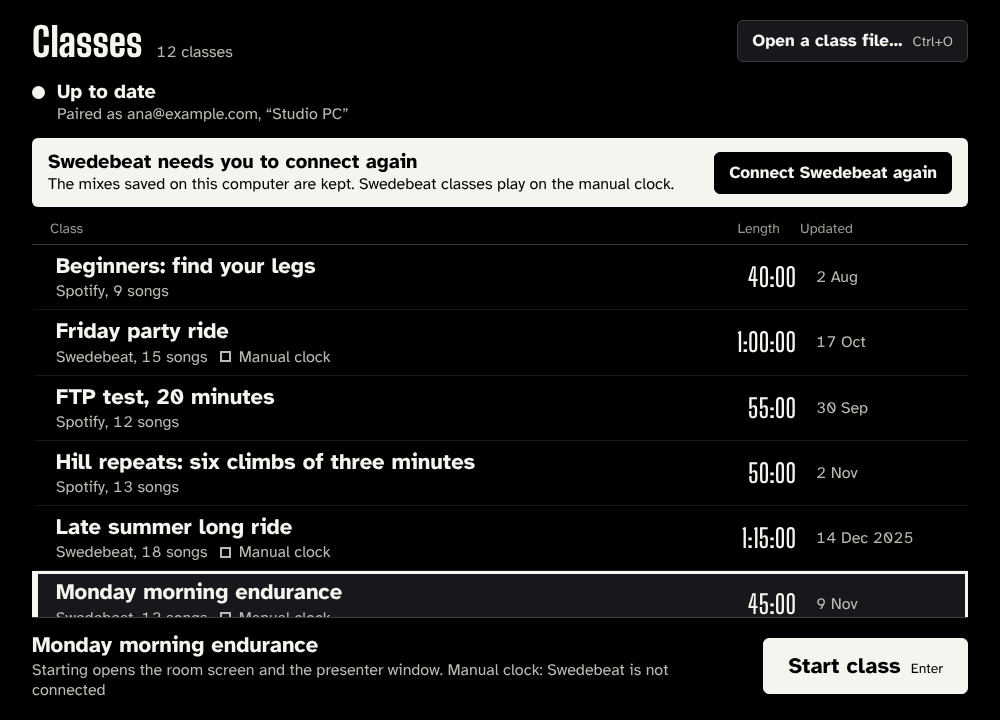
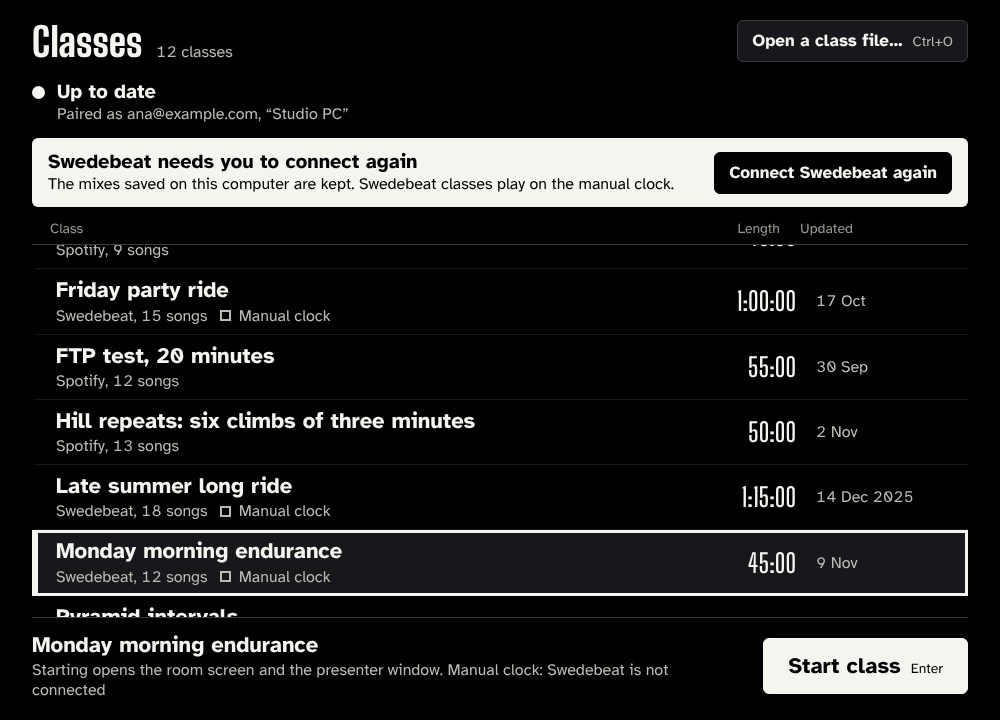
docs(design): fix Swedebeat spec findings from review
Claude-Session: https://claude.ai/code/session_01LLHBh3xazuKpSV1STS2mcZ

diff --git a/docs/design/mockups/room-mix-fallback-longest.html b/docs/design/mockups/room-mix-fallback-longest.html
@@ -1,0 +1,57 @@
+<!doctype html>
+<html lang="en">
+<head>
+<meta charset="utf-8">
+<title>Room screen: before the start</title>
+<link rel="stylesheet" href="tokens.css">
+<link rel="stylesheet" href="room.css">
+<link rel="stylesheet" href="swedebeat-room.css">
+</head>
+<body>
+<!-- State: before the start, the longest reason (no safe place for the sign-in). Checked at every room size. Spec: docs/design/swedebeat.md. Generated by swedebeat-pages.js from room-before-start-manual.html. -->
+<aside class="gel z1 down">
+  <div class="gel-head"><span class="gel-num n" data-tier="gel">1</span><span class="lbl" data-tier="label" data-lines="2">First zone</span></div>
+  <span class="gel-name n" data-tier="value" data-lines="2">Recovery</span>
+  <div class="gel-targets" data-tier="minor" data-lines="3"><span>50–60% FTP</span><span>RPE 2–3</span></div>
+</aside>
+
+<header class="rail">
+
+  <span class="lbl seg"></span>
+  <span class="link manual" data-tier="label">Press Start · Swedebeat cannot be connected here</span>
+</header>
+
+<section class="intro">
+  <h1 data-tier="value">Thursday threshold</h1>
+  <div class="facts">
+    <div><span class="lbl" data-tier="label">Length</span><span class="v n" data-tier="value">42:00</span></div>
+    <div><span class="lbl" data-tier="label">Songs</span><span class="v n" data-tier="value">11</span></div>
+    <div><span class="lbl" data-tier="label">Intervals</span><span class="v n" data-tier="value">24</span></div>
+    <div><span class="lbl" data-tier="label">Class load</span><span class="v n" data-tier="value">58</span></div>
+  </div>
+  <span class="lbl ztitle" data-tier="label">Time in each zone, as planned</span>
+  <div class="zones">
+    <div class="z1"><span class="n" data-tier="minor">1</span><span class="tm" data-tier="minor">6:00</span><span class="t" data-tier="label" data-lines="2" data-clamp="2">Recovery</span></div>
+    <div class="z2"><span class="n" data-tier="minor">2</span><span class="tm" data-tier="minor">11:30</span><span class="t" data-tier="label" data-lines="2" data-clamp="2">Endurance, the aerobic base for long steady rides</span></div>
+    <div class="z3"><span class="n" data-tier="minor">3</span><span class="tm" data-tier="minor">8:00</span><span class="t" data-tier="label" data-lines="2" data-clamp="2">Tempo</span></div>
+    <div class="z4"><span class="n" data-tier="minor">4</span><span class="tm" data-tier="minor">7:00</span><span class="t" data-tier="label" data-lines="2" data-clamp="2">Threshold</span></div>
+    <div class="z5"><span class="n" data-tier="minor">5</span><span class="tm" data-tier="minor">5:00</span><span class="t" data-tier="label" data-lines="2" data-clamp="2">VO2 max</span></div>
+    <div class="z6"><span class="n" data-tier="minor">6</span><span class="tm" data-tier="minor">3:00</span><span class="t" data-tier="label" data-lines="2" data-clamp="2">Anaerobic capacity</span></div>
+    <div class="z7"><span class="n" data-tier="minor">7</span><span class="tm" data-tier="minor">1:30</span><span class="t" data-tier="label" data-lines="2" data-clamp="2">Neuromuscular power</span></div>
+  </div>
+</section>
+
+<section class="score">
+  <div class="track iv">
+    <div class="block z1" style="left:25.00vw;width:50.00vw"><span class="n" data-tier="minor">1</span><span class="t" data-tier="label" data-fit="hide">Recovery</span></div>
+    <div class="block z2" style="left:75.00vw;width:33.33vw;padding-right:13.33vw"><span class="n" data-tier="minor">2</span><span class="t" data-tier="label" data-fit="hide">Endurance, the aerobic base for long steady rides</span></div>
+  </div>
+  <div class="track songs">
+    <div class="clip" style="left:25.00vw;width:64.44vw;--phrase:2.564vw"><span class="head"><b data-tier="label" data-clamp="1">Slow Sunrise</b></span><span class="a" data-tier="label" data-fit="hide">Harbour Lights</span><span class="bpm" data-tier="label" data-fit="hide">104 bpm</span></div>
+    <div class="clip" style="left:89.44vw;width:66.11vw;--phrase:2.083vw"></div>
+  </div>
+  <div class="past"></div>
+  <div class="now"></div>
+</section>
+</body>
+</html>

diff --git a/docs/design/mockups/class-list-swedebeat-form.html b/docs/design/mockups/class-list-swedebeat-form.html
@@ -15,5 +15,7 @@
   <button><span data-tier="minor" data-min-cap="12">Open a class file…</span> <span data-tier="label" data-min-cap="9.5" class="kbd">Ctrl+O</span></button>
 </header><div class="status"><div class="what"><span class="mark ok" aria-hidden="true"></span><div><span data-tier="minor" data-min-cap="14" class="st">Up to date</span><div><span data-tier="minor" data-min-cap="11" data-lines="2" class="dt">Paired as ana@example.com, “Studio PC”</span></div></div></div></div><section class="panel"><h2 class="n" data-tier="minor" data-min-cap="28">Connect Swedebeat</h2><p data-tier="minor" data-min-cap="14" data-lines="2">Type the details you use for Swedebeat. They are used once to connect and are not kept.</p><div class="fields"><div class="field-box"><span data-tier="label" data-min-cap="9.5" class="lbl">Username</span><div class="in focus"><span data-tier="minor" data-min-cap="13" data-lines="1">ana.k</span></div></div><div class="field-box"><span data-tier="label" data-min-cap="9.5" class="lbl">Password</span><div class="in"><span data-tier="minor" data-min-cap="13" data-lines="1">••••••••••</span></div></div></div><div class="row-btns"><button class="primary"><span data-tier="minor" data-min-cap="12">Connect</span> <span data-tier="label" data-min-cap="9.5" class="kbd">Enter</span></button><button><span data-tier="minor" data-min-cap="12">Cancel</span> <span data-tier="label" data-min-cap="9.5" class="kbd">Esc</span></button></div><p class="fine" data-tier="minor" data-min-cap="11" data-lines="3">Your password is not kept.</p></section>
 </div>
+<script>/* The selected row is scrolled into view, as the product does. */
+var r = document.querySelector(".row.sel"); if (r) r.scrollIntoView({ block: "nearest" });</script>
 </body>
 </html>

diff --git a/docs/design/mockups/swedebeat-pages.js b/docs/design/mockups/swedebeat-pages.js
@@ -122,6 +122,8 @@ const doc = (name) => {
 <div class="app">
 ${body}
 </div>
+<script>/* The selected row is scrolled into view, as the product does. */
+var r = document.querySelector(".row.sel"); if (r) r.scrollIntoView({ block: "nearest" });</script>
 </body>
 </html>
 `;
@@ -135,6 +137,8 @@ const ROOMS = {
     'State: before the start, the mix is on its way. Hollow dot, grey, the number in the words. Start still works: the mix plays while it downloads, and falls back (below) only if the sound would catch up with the download.'],
   'fallback': ['room-before-start-manual.html', '<span class="link manual" data-tier="label">Press Start</span>', '<span class="link manual" data-tier="label">Press Start · Swedebeat is not connected</span>',
     'State: before the start, the class is a Swedebeat class and plays on the manual clock. Grey square (a choice, not a fault: no plate); the reason follows "Press Start".'],
+  'fallback-longest': ['room-before-start-manual.html', '<span class="link manual" data-tier="label">Press Start</span>', '<span class="link manual" data-tier="label">Press Start · Swedebeat cannot be connected here</span>',
+    'State: before the start, the longest reason (no safe place for the sign-in). Checked at every room size.'],
   'playing': ['room-running.html', '<span class="link" data-tier="label">Following Spotify</span>', '<span class="link ready" data-tier="label">Playing the mix</span>',
     'State: running on the mix. The class clock is the audio position, so there is no "following", no bar count to lose and no link to lose.'],
   'fell-back': ['room-running.html', '<span class="link" data-tier="label">Following Spotify</span>', '<span class="link manual handover" data-tier="label">Mix still downloading</span>',

diff --git a/docs/design/mockups/class-list-swedebeat-refused.html b/docs/design/mockups/class-list-swedebeat-refused.html
@@ -15,5 +15,7 @@
   <button><span data-tier="minor" data-min-cap="12">Open a class file…</span> <span data-tier="label" data-min-cap="9.5" class="kbd">Ctrl+O</span></button>
 </header><div class="status"><div class="what"><span class="mark ok" aria-hidden="true"></span><div><span data-tier="minor" data-min-cap="14" class="st">Up to date</span><div><span data-tier="minor" data-min-cap="11" data-lines="2" class="dt">Paired as ana@example.com, “Studio PC”</span></div></div></div></div><div class="plate second" role="alert"><div><span data-tier="minor" data-min-cap="14" data-lines="2" class="st">Swedebeat did not accept those details</span><div><span data-tier="minor" data-min-cap="11" data-lines="3" class="dt">Check them and type them again. Nothing was kept.</span></div></div><div class="row-btns" style="display:flex;gap:12px"></div></div><section class="panel"><h2 class="n" data-tier="minor" data-min-cap="28">Connect Swedebeat</h2><div class="fields"><div class="field-box"><span data-tier="label" data-min-cap="9.5" class="lbl">Username</span><div class="in focus"></div></div><div class="field-box"><span data-tier="label" data-min-cap="9.5" class="lbl">Password</span><div class="in"></div></div></div><div class="row-btns"><button class="primary"><span data-tier="minor" data-min-cap="12">Connect</span> <span data-tier="label" data-min-cap="9.5" class="kbd">Enter</span></button><button><span data-tier="minor" data-min-cap="12">Cancel</span> <span data-tier="label" data-min-cap="9.5" class="kbd">Esc</span></button></div></section>
 </div>
+<script>/* The selected row is scrolled into view, as the product does. */
+var r = document.querySelector(".row.sel"); if (r) r.scrollIntoView({ block: "nearest" });</script>
 </body>
 </html>

diff --git a/docs/design/mockups/class-list-swedebeat-rate-limited.html b/docs/design/mockups/class-list-swedebeat-rate-limited.html
@@ -15,5 +15,7 @@
   <button><span data-tier="minor" data-min-cap="12">Open a class file…</span> <span data-tier="label" data-min-cap="9.5" class="kbd">Ctrl+O</span></button>
 </header><div class="status"><div class="what"><span class="mark ok" aria-hidden="true"></span><div><span data-tier="minor" data-min-cap="14" class="st">Up to date</span><div><span data-tier="minor" data-min-cap="11" data-lines="2" class="dt">Paired as ana@example.com, “Studio PC”</span></div></div></div></div><div class="plate second" role="alert"><div><span data-tier="minor" data-min-cap="14" data-lines="2" class="st">Too many tries</span><div><span data-tier="minor" data-min-cap="11" data-lines="3" class="dt">Wait a few minutes, then type your details again. Nothing was kept.</span></div></div><div class="row-btns" style="display:flex;gap:12px"></div></div><section class="panel"><h2 class="n" data-tier="minor" data-min-cap="28">Connect Swedebeat</h2><div class="fields"><div class="field-box"><span data-tier="label" data-min-cap="9.5" class="lbl">Username</span><div class="in focus"></div></div><div class="field-box"><span data-tier="label" data-min-cap="9.5" class="lbl">Password</span><div class="in"></div></div></div><div class="row-btns"><button class="primary"><span data-tier="minor" data-min-cap="12">Connect</span> <span data-tier="label" data-min-cap="9.5" class="kbd">Enter</span></button><button><span data-tier="minor" data-min-cap="12">Cancel</span> <span data-tier="label" data-min-cap="9.5" class="kbd">Esc</span></button></div></section>
 </div>
+<script>/* The selected row is scrolled into view, as the product does. */
+var r = document.querySelector(".row.sel"); if (r) r.scrollIntoView({ block: "nearest" });</script>
 </body>
 </html>

diff --git a/docs/design/mockups/shots.js b/docs/design/mockups/shots.js
@@ -152,7 +152,7 @@ const appShot = (name, w, h) => ({
 // (1000x720 kept, the main state also at 1920x1080), and the room link line at three room sizes
 // (1920x1080 kept, 1024x768 kept for the longest line, 1280x1024 checked).
 const { NAMES: SW_NAMES, ROOM_NAMES: SW_ROOMS } = require('./swedebeat-pages');
-const swList = (name, w, h) => ({ file: `class-list-swedebeat-${name}.html`, png: `class-list-swedebeat-${name}-${w}x${h}.png`, w, h, room: false, presenter: true, save: w === 1000 || (name === 'signed-in' && w === 1920) });
+const swList = (name, w, h) => ({ file: `class-list-swedebeat-${name}.html`, png: `class-list-swedebeat-${name}-${w}x${h}.png`, w, h, room: false, presenter: true, save: w === 1000 || w === 1280 || (name === 'signed-in' && w === 1920) });
 const SW_ROOM_SIZES = [[1920, 1080], [1280, 1024], [1024, 768]];
 
 const ONLY = process.env.ONLY ? new RegExp(process.env.ONLY) : null;
@@ -189,7 +189,7 @@ const SHOTS = [
   { file: 'presenter.html', png: 'presenter-1000x720.png', w: 1000, h: 720, room: false, presenter: true, save: true },
   ...LIST_STATES.flatMap((s) => LIST_SIZES.map(([w, h]) => list(s, w, h))),
   ...SW_NAMES.flatMap((n) => LIST_SIZES.map(([w, h]) => swList(n, w, h))),
-  ...SW_ROOMS.flatMap((n) => SW_ROOM_SIZES.map(([w, h]) => room(`mix-${n}`, w, h, w === 1920 || (w === 1024 && n === 'fell-back')))),
+  ...SW_ROOMS.flatMap((n) => SW_ROOM_SIZES.map(([w, h]) => room(`mix-${n}`, w, h, true))),
   ...SITE_NAMES.flatMap((n) => SITE_WIDTHS.map((w) => site(n, w))),
   ...SITE_MAIN.map((n) => ({ ...site(n, 320), save: false })),
   ...COMPANION_NAMES.flatMap((n) => COMPANION_SIZES.map(([w, h]) => companion(n, w, h))),

diff --git a/docs/design/mockups/class-list-swedebeat-signing-out.html b/docs/design/mockups/class-list-swedebeat-signing-out.html
@@ -15,5 +15,7 @@
   <button><span data-tier="minor" data-min-cap="12">Open a class file…</span> <span data-tier="label" data-min-cap="9.5" class="kbd">Ctrl+O</span></button>
 </header><div class="status"><div class="what"><span class="mark ok" aria-hidden="true"></span><div><span data-tier="minor" data-min-cap="14" class="st">Up to date</span><div><span data-tier="minor" data-min-cap="11" data-lines="2" class="dt">Paired as ana@example.com, “Studio PC”</span></div></div></div></div><div class="status sw"><div class="what"><span class="mark work" aria-hidden="true"></span><div><span data-tier="minor" data-min-cap="14" class="st">Signing out of Swedebeat</span><div><span data-tier="minor" data-min-cap="11" data-lines="2" class="dt">The mixes saved on this computer are being removed</span></div></div></div></div><section class="panel"><h2 class="n" data-tier="minor" data-min-cap="28">One moment</h2><p data-tier="minor" data-min-cap="14" data-lines="2">Nothing can start until this is done. You can still open a class file.</p></section>
 </div>
+<script>/* The selected row is scrolled into view, as the product does. */
+var r = document.querySelector(".row.sel"); if (r) r.scrollIntoView({ block: "nearest" });</script>
 </body>
 </html>

diff --git a/docs/design/mockups/class-list-swedebeat-connecting.html b/docs/design/mockups/class-list-swedebeat-connecting.html
@@ -15,5 +15,7 @@
   <button><span data-tier="minor" data-min-cap="12">Open a class file…</span> <span data-tier="label" data-min-cap="9.5" class="kbd">Ctrl+O</span></button>
 </header><div class="status"><div class="what"><span class="mark ok" aria-hidden="true"></span><div><span data-tier="minor" data-min-cap="14" class="st">Up to date</span><div><span data-tier="minor" data-min-cap="11" data-lines="2" class="dt">Paired as ana@example.com, “Studio PC”</span></div></div></div></div><div class="status sw"><div class="what"><span class="mark work" aria-hidden="true"></span><div><span data-tier="minor" data-min-cap="14" class="st">Connecting to Swedebeat…</span><div><span data-tier="minor" data-min-cap="11" data-lines="2" class="dt">Your details were sent and have been cleared from this page</span></div></div></div></div><section class="panel"><h2 class="n" data-tier="minor" data-min-cap="28">One moment</h2><p data-tier="minor" data-min-cap="14" data-lines="2">Swedebeat classes can start on the manual clock meanwhile.</p></section>
 </div>
+<script>/* The selected row is scrolled into view, as the product does. */
+var r = document.querySelector(".row.sel"); if (r) r.scrollIntoView({ block: "nearest" });</script>
 </body>
 </html>

diff --git a/docs/design/mockups/class-list-swedebeat-no-keychain.html b/docs/design/mockups/class-list-swedebeat-no-keychain.html
@@ -74,5 +74,7 @@
     <span class="upd"><span data-tier="minor" data-min-cap="11">Yesterday</span></span>
   </div></div><footer class="foot"><div class="sel"><div class="t"><span data-tier="minor" data-min-cap="15" data-lines="2" data-clamp="2">Monday morning endurance</span></div><div class="dt"><span data-tier="minor" data-min-cap="11" data-lines="2">Starting opens the room screen and the presenter window. Manual clock: Swedebeat cannot be connected here</span></div></div><button class="primary"><span data-tier="minor" data-min-cap="15">Start class</span> <span data-tier="label" data-min-cap="9.5" class="kbd">Enter</span></button></footer>
 </div>
+<script>/* The selected row is scrolled into view, as the product does. */
+var r = document.querySelector(".row.sel"); if (r) r.scrollIntoView({ block: "nearest" });</script>
 </body>
 </html>

diff --git a/docs/design/mockups/class-list-swedebeat-reconnect.html b/docs/design/mockups/class-list-swedebeat-reconnect.html
@@ -74,5 +74,7 @@
     <span class="upd"><span data-tier="minor" data-min-cap="11">Yesterday</span></span>
   </div></div><footer class="foot"><div class="sel"><div class="t"><span data-tier="minor" data-min-cap="15" data-lines="2" data-clamp="2">Monday morning endurance</span></div><div class="dt"><span data-tier="minor" data-min-cap="11" data-lines="2">Starting opens the room screen and the presenter window. Manual clock: Swedebeat is not connected</span></div></div><button class="primary"><span data-tier="minor" data-min-cap="15">Start class</span> <span data-tier="label" data-min-cap="9.5" class="kbd">Enter</span></button></footer>
 </div>
+<script>/* The selected row is scrolled into view, as the product does. */
+var r = document.querySelector(".row.sel"); if (r) r.scrollIntoView({ block: "nearest" });</script>
 </body>
 </html>

diff --git a/docs/design/mockups/class-list-swedebeat-signed-out.html b/docs/design/mockups/class-list-swedebeat-signed-out.html
@@ -74,5 +74,7 @@
     <span class="upd"><span data-tier="minor" data-min-cap="11">Yesterday</span></span>
   </div></div><footer class="foot"><div class="sel"><div class="t"><span data-tier="minor" data-min-cap="15" data-lines="2" data-clamp="2">Monday morning endurance</span></div><div class="dt"><span data-tier="minor" data-min-cap="11" data-lines="2">Starting opens the room screen and the presenter window. Manual clock: Swedebeat is not connected</span></div></div><button class="primary"><span data-tier="minor" data-min-cap="15">Start class</span> <span data-tier="label" data-min-cap="9.5" class="kbd">Enter</span></button></footer>
 </div>
+<script>/* The selected row is scrolled into view, as the product does. */
+var r = document.querySelector(".row.sel"); if (r) r.scrollIntoView({ block: "nearest" });</script>
 </body>
 </html>

diff --git a/docs/design/mockups/class-list-swedebeat-unreachable.html b/docs/design/mockups/class-list-swedebeat-unreachable.html
@@ -74,5 +74,7 @@
     <span class="upd"><span data-tier="minor" data-min-cap="11">Yesterday</span></span>
   </div></div><footer class="foot"><div class="sel"><div class="t"><span data-tier="minor" data-min-cap="15" data-lines="2" data-clamp="2">Monday morning endurance</span></div><div class="dt"><span data-tier="minor" data-min-cap="11" data-lines="2">Starting opens the room screen and the presenter window. Manual clock: Swedebeat is not connected</span></div></div><button class="primary"><span data-tier="minor" data-min-cap="15">Start class</span> <span data-tier="label" data-min-cap="9.5" class="kbd">Enter</span></button></footer>
 </div>
+<script>/* The selected row is scrolled into view, as the product does. */
+var r = document.querySelector(".row.sel"); if (r) r.scrollIntoView({ block: "nearest" });</script>
 </body>
 </html>
